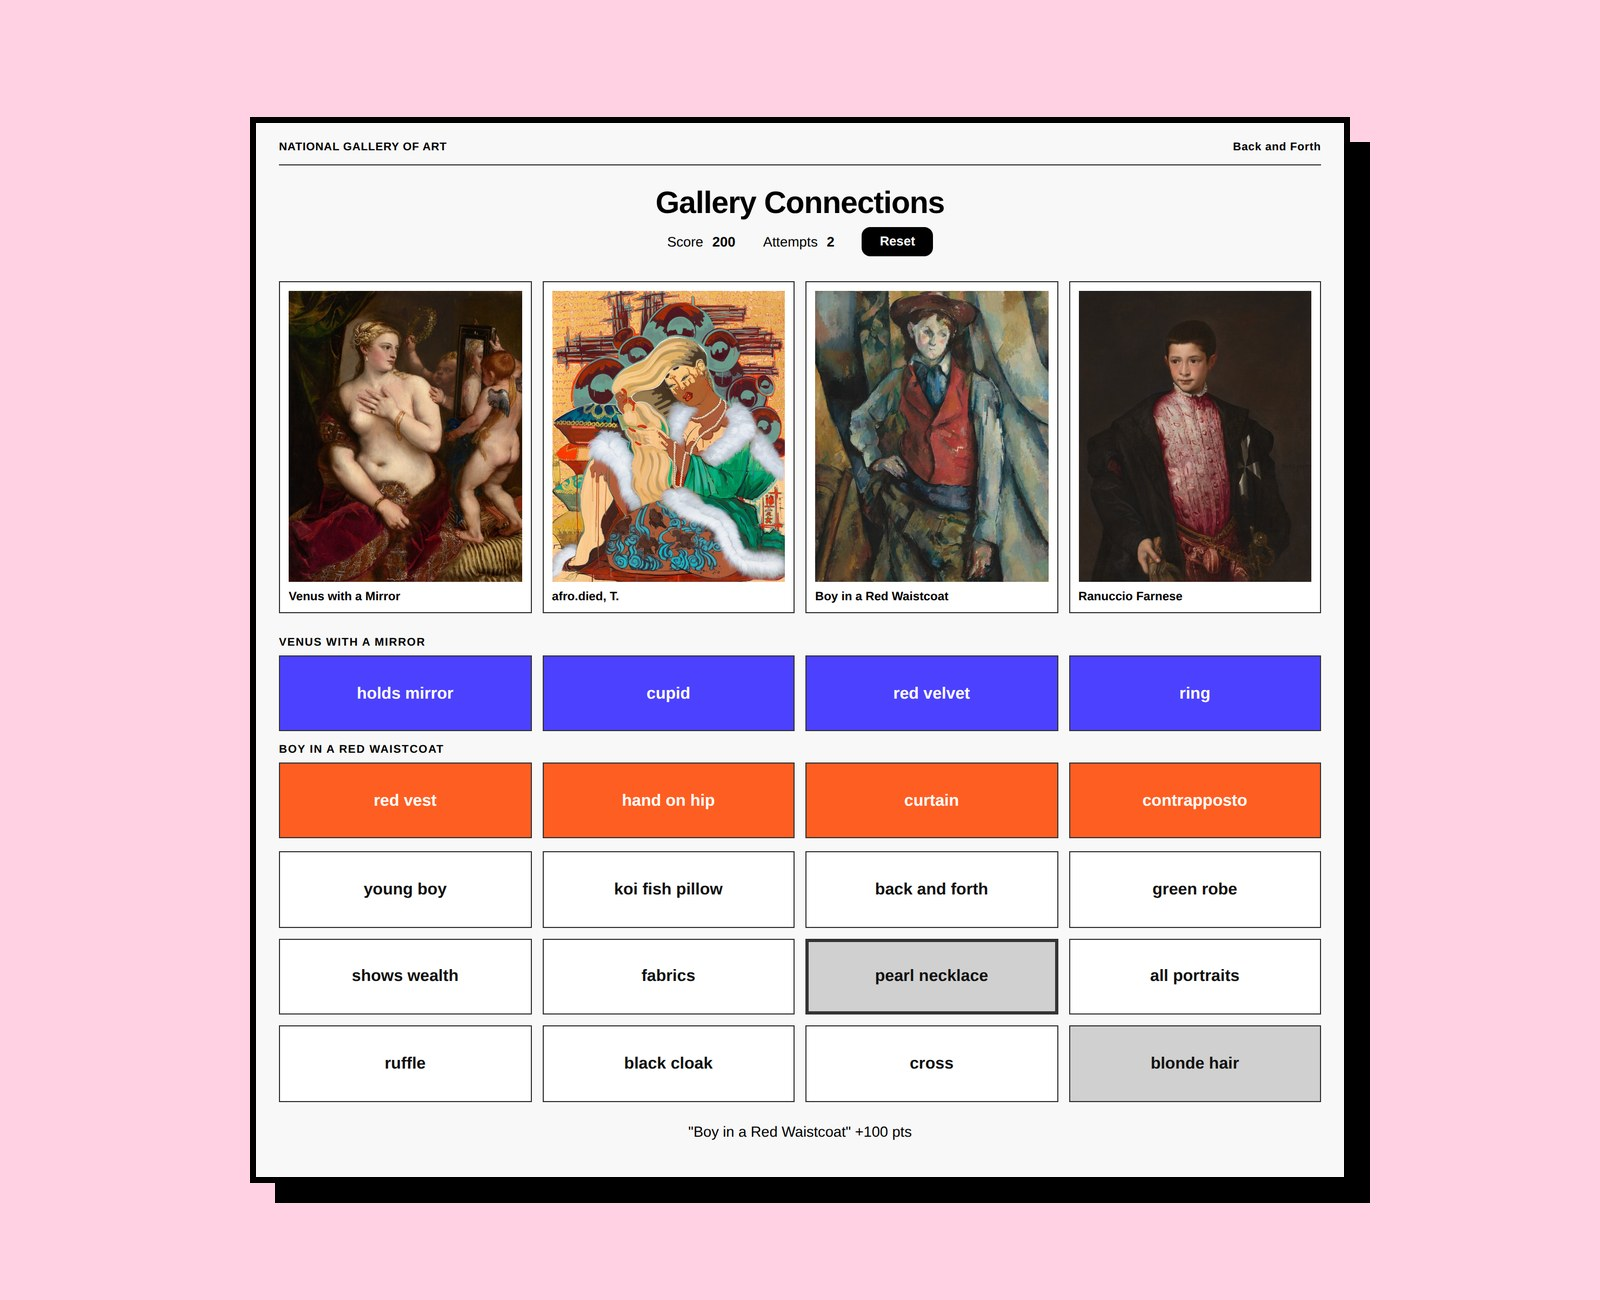
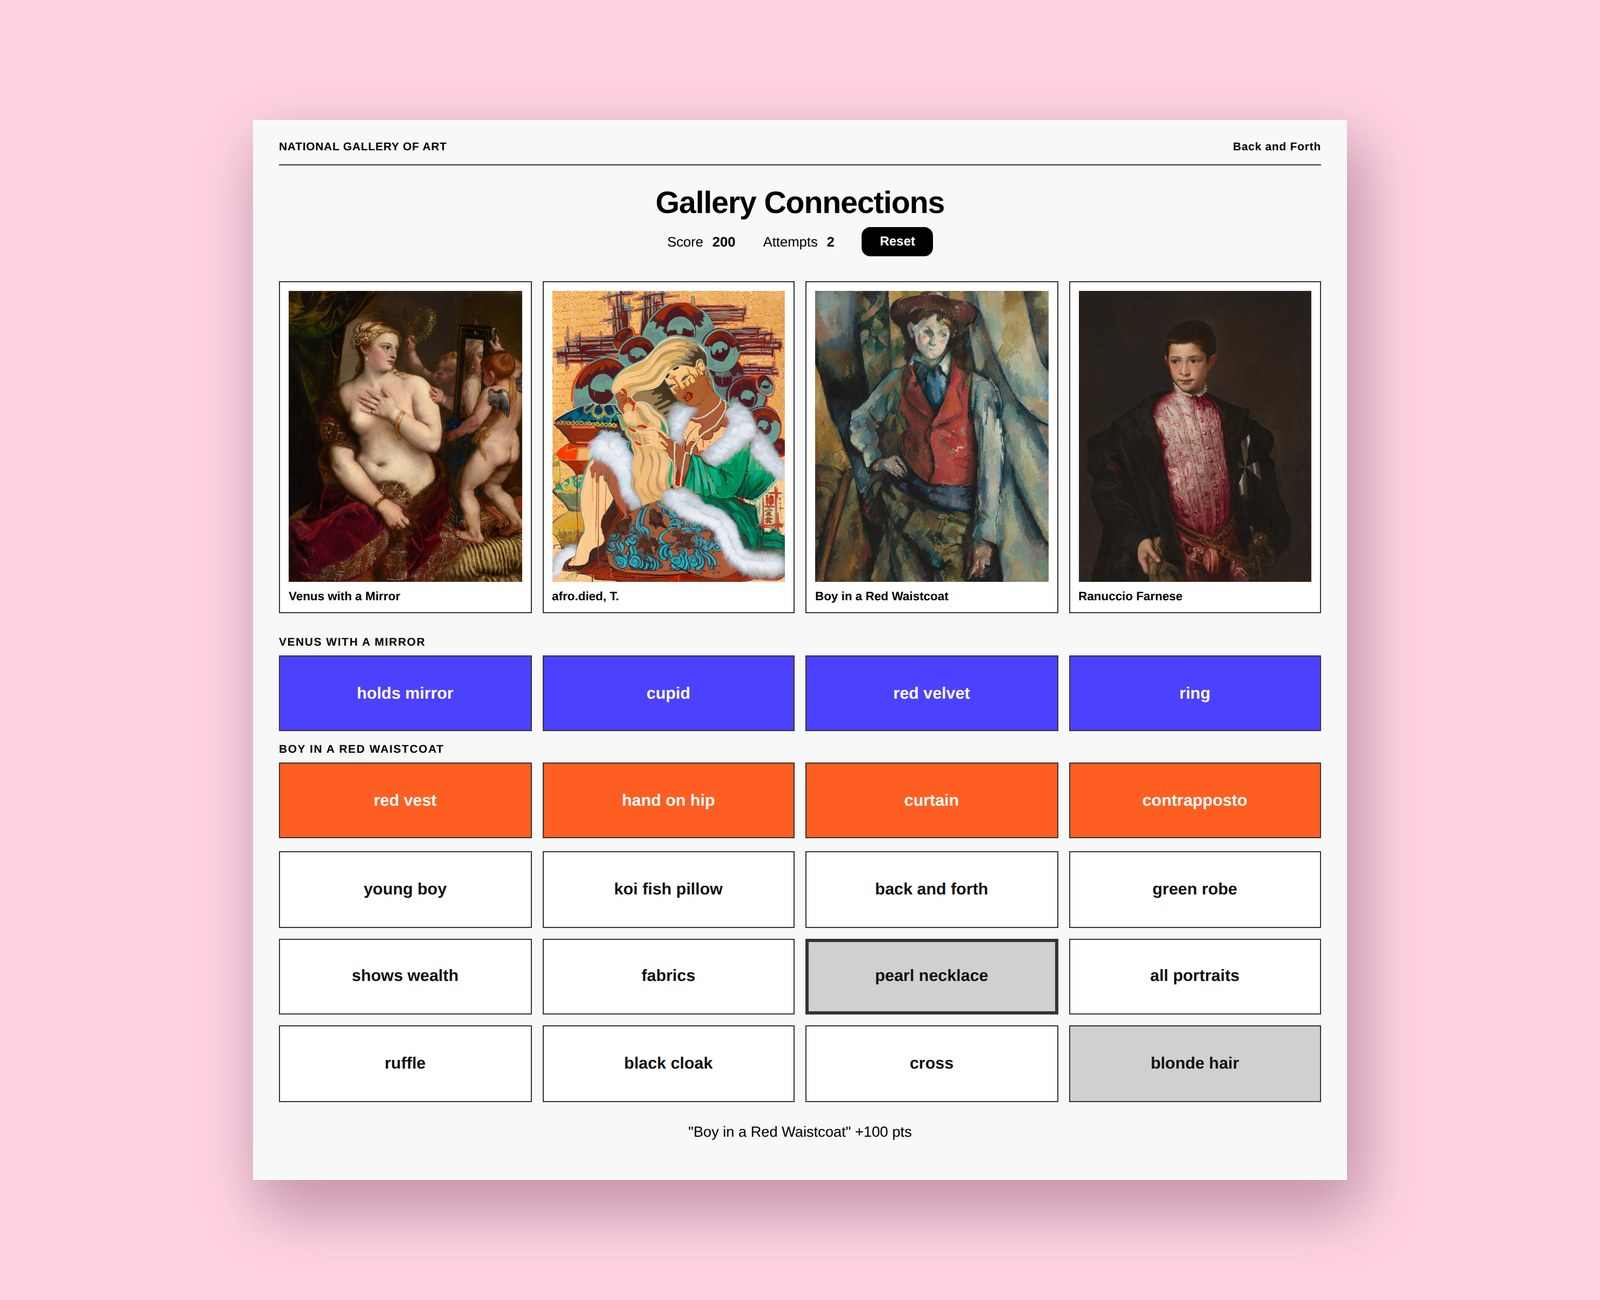
Remove strip strokes

Changed region(s): [[0.1562, 0.0923, 0.875, 0.9538]]

diff --git a/style.css b/style.css
@@ -82,3 +82,6 @@ a:focus-visible{outline:2px solid var(--pink);outline-offset:4px}
 .svc.intro{width:min(84rem,94vw)}
 .svc.intro ol{grid-template-columns:repeat(3,auto);justify-content:center;--g:clamp(5rem,12vw,13rem);column-gap:var(--g)}
 .svc.intro ol>li:not(:last-child)::after{right:calc(var(--g) / -2 - .55rem)}
+
+/* no strokes on the landing photo bar */
+.strip,.track,.track img{border:0!important;outline:0!important;box-shadow:none!important}
